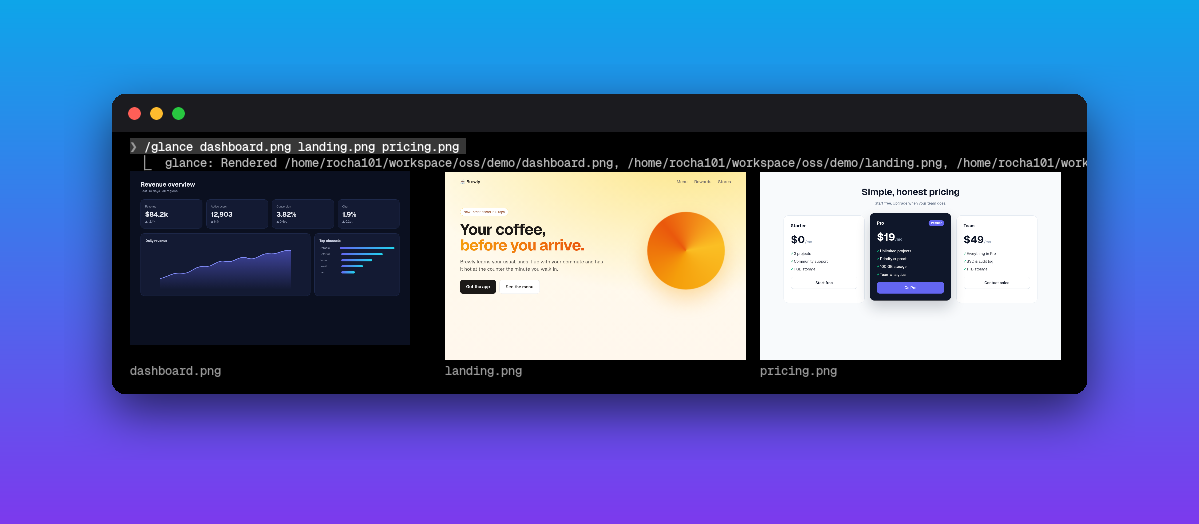
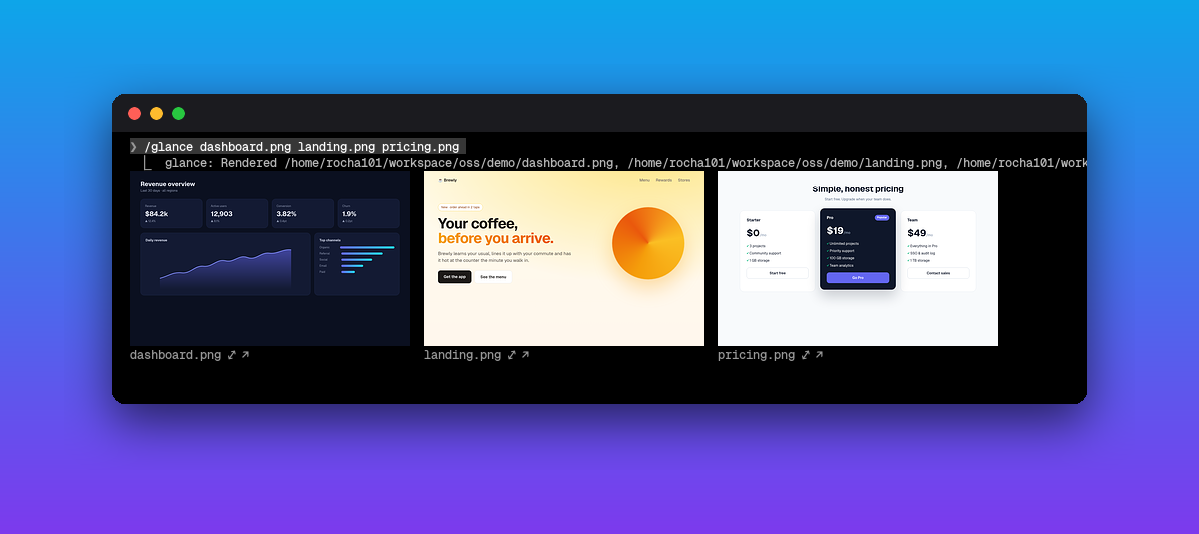
Click to zoom or open: ⤢ enlarges a picture to the chat width, ↗ opens it in the default app

Changed region(s): [[0.0926, 0.1527, 0.8949, 0.7634], [0.1234, 0.3664, 0.2469, 0.4275], [0.2777, 0.3969, 0.3086, 0.4275]]

diff --git a/hooks/register.tsx b/hooks/register.tsx
@@ -16,6 +16,8 @@ const BROWSERS = ['chromium', 'google-chrome-stable', 'google-chrome']
 
 const shots = atom({ plugin: 'glance', key: 'shots' } as const, {})
 const generation = atom({ plugin: 'glance', key: 'generation' } as const, 0)
+// pictures the person enlarged, by generation
+const expanded = atom({ plugin: 'glance', key: 'expanded' } as const, {})
 
 // GLANCE_MODE=image|cells overrides; else kitty-protocol terminals get real pixels
 async function wantsImage($: EngineInterface) {
@@ -189,9 +191,19 @@ const WIDE = 160 // chat columns from which pictures stop at half the width
 
 type ResolveArg = Parameters<EngineInterface['ui']['resolve']>[0]
 
-async function tile($: EngineInterface, e: ResolveArg, s: Shot, cols: number, rows: number, caption: boolean, cell: Cell | undefined) {
+async function toggleSize($: EngineInterface, s: Shot) {
+  await update($, expanded, all => ({ ...all, [String(s.generation)]: !all[String(s.generation)] }))
+}
+
+// the source itself in the desktop's default app: images in the viewer, pages in the browser
+async function openOutside($: EngineInterface, s: Shot) {
+  const r = await $.process.run(['setsid', '-f', 'xdg-open', s.file])
+  if (r.exitCode) $.ui.toast(`glance: could not open ${s.file}`)
+}
+
+async function tile($: EngineInterface, e: ResolveArg, s: Shot, cols: number, rows: number, isBig: boolean, cell: Cell | undefined) {
   if (e.surface !== 'terminal') return null
-  const { Box, Text, Image, Raster } = $.ui.resolve(e)
+  const { Box, Button, Text, Image, Raster } = $.ui.resolve(e)
   const name = s.file.split('/').pop() ?? s.file
   if (s.error) return <Text color="red">glance: {s.error}</Text>
   let pic
@@ -205,13 +217,18 @@ async function tile($: EngineInterface, e: ResolveArg, s: Shot, cols: number, ro
   return (
     <Box flexDirection="column" width={cols}>
       {pic}
-      {caption && <Text dimColor wrap="truncate-end">{name}</Text>}
+      <Box flexDirection="row" columnGap={1}>
+        <Box flexShrink={1}><Text dimColor wrap="truncate-end">{name}</Text></Box>
+        <Button key={`zoom${s.generation}`} plain dimColor label={isBig ? '⤡' : '⤢'} onPress={() => toggleSize($, s)} />
+        <Button key={`open${s.generation}`} plain dimColor label="↗" onPress={() => openOutside($, s)} />
+      </Box>
     </Box>
   )
 }
 
 // justified rows: as many images per row as fit at MIN_TILE columns, all of a row one height,
-// that height filling the width but never past any image's natural size (px / cellPx: no upscale)
+// that height filling the width but never past any image's natural size (px / cellPx: no upscale);
+// an enlarged picture (⤢) takes a row of its own at the whole chat width
 async function gallery($: EngineInterface, e: ResolveArg, list: Shot[], width: number) {
   const { Box, Text } = $.ui.resolve(e)
   if (e.surface !== 'terminal') return <Text dimColor>Pictures draw in the terminal only.</Text>
@@ -224,8 +241,25 @@ async function gallery($: EngineInterface, e: ResolveArg, list: Shot[], width: n
   const ok = list.filter(s => !s.error)
   const rows = []
   for (const s of list.filter(s => s.error)) rows.push(await tile($, e, s, 1, 1, false, cell))
-  for (let i = 0; i < ok.length; i += perRow) {
-    const row = ok.slice(i, i + perRow)
+  const big = await read($, expanded)
+  const full = Math.max(1, Math.min(255, width - 4))
+  // runs of compact pictures between the enlarged ones, each enlarged one a row of its own
+  const groups: Shot[][] = []
+  for (const s of ok) {
+    const last = groups[groups.length - 1]
+    if (big[String(s.generation)]) groups.push([s])
+    else if (last && !big[String(last[0]!.generation)] && last.length < perRow) last.push(s)
+    else groups.push([s])
+  }
+  for (const row of groups) {
+    if (big[String(row[0]!.generation)]) {
+      const s = row[0]!
+      const a = s.w / s.h
+      const height = Math.max(1, Math.min(255, Math.floor(full / (ratio * a))))
+      const cols = Math.max(1, Math.min(full, Math.round(ratio * a * height)))
+      rows.push(await tile($, e, s, cols, height, true, cell))
+      continue
+    }
     // an image `a = w/h` wide is ratio * a * rows columns
     const aspect = row.map(s => s.w / s.h)
     const fill = (avail - GAP * (row.length - 1)) / (ratio * aspect.reduce((x, y) => x + y, 0))
@@ -234,7 +268,7 @@ async function gallery($: EngineInterface, e: ResolveArg, list: Shot[], width: n
     const tiles = []
     for (const [k, s] of row.entries()) {
       const cols = Math.max(1, Math.min(avail, Math.round(ratio * aspect[k]! * height)))
-      tiles.push(await tile($, e, s, cols, height, list.length > 1, cell))
+      tiles.push(await tile($, e, s, cols, height, false, cell))
     }
     rows.push(<Box flexDirection="row" gap={GAP} alignItems="flex-start">{tiles}</Box>)
   }

diff --git a/tests/render.test.tsx b/tests/render.test.tsx
@@ -94,3 +94,36 @@ test('pictures are resized to the exact pixels of their box when the terminal re
   expect(ph! % 20).toBe(0)
   await ui.unmount()
 })
+
+test('⤢ enlarges a picture to the whole chat width, ⤡ shrinks it back, ↗ opens the source', async ($, on) => {
[1 lines of base64/hex data omitted]
+  const ran: string[][] = []
+  on('process.run', (_$, e) => {
+    ran.push([...e.argv])
+    const out = e.argv[0] === 'realpath' ? '/abs/small.png\n' : e.argv[1] === 'identify' ? '400 300' : ''
+    return { value: { exitCode: 0, stdout: out, stderr: '', isStdoutTruncated: false, isStderrTruncated: false } }
+  })
+  on('clock.now', () => ({ value: 0 }))
+  on('fs.read', () => ({ value: { base64: PNG } }))
+  on('env.get', (_$, e) => ({ value: e.name === 'GLANCE_MODE' ? 'image' : undefined }))
+  on('ui.render', ($, e) => { const { Text } = $.ui.resolve(e); return <Text>row</Text> })
+
+  const res = await $.command.run({
+    command: 'glance', args: 'small.png', origin: { kind: 'composer' }, presentation: { isFullscreen: true, columns: 120 },
+  })
+  const ui = await $.ui.mount({ plugin: 'glance', surface: 'terminal', component: 'CommandOutput',
+    viewport: { columns: 120, rows: 50 },
+    props: { command: 'glance', args: 'small.png', text: res.text ?? '', isErrored: false } })
+  const width = async () => Number(JSON.stringify(await ui.find({ type: 'Image' })).match(/"columns":(\d+)/)?.[1])
+
+  const compact = await width()
+  expect(compact).toBeLessThan(40) // 400px / 12 ≈ 33 columns
+  await ui.press({ key: 'zoom1' })
+  expect(await width()).toBeGreaterThan(108) // the whole chat width, less row rounding
+  await ui.press({ key: 'zoom1' })
+  expect(await width()).toBe(compact)
+
+  await ui.press({ key: 'open1' })
+  expect(ran.some(a => a.join(' ') === 'setsid -f xdg-open /abs/small.png')).toBe(true)
+  await ui.unmount()
+})

diff --git a/types/index.d.ts b/types/index.d.ts
@@ -3,6 +3,6 @@ export type Shot = { file: string; img: string; w: number; h: number; generation
 
 declare module 'claude-code' {
   interface PluginState {
-    'glance': { shots: Record<string, Shot>; generation: number }
+    'glance': { shots: Record<string, Shot>; generation: number; expanded: Record<string, boolean> }
   }
 }

diff --git a/README.pt-BR.md b/README.pt-BR.md
@@ -30,6 +30,7 @@ O **glance** fecha esse ciclo. Assim que o Claude escreve ou edita um `.html`, u
 - **`/glance` em qualquer coisa** — `/glance mockup.png pagina.html grafico.svg` mostra qualquer arquivo na hora.
 - **Galeria inteligente** — várias imagens lado a lado em linhas justificadas, mesma altura, com legenda.
 - **Tamanho certo** — tamanho real, nunca ampliado; metade da largura em tela cheia, largura toda com a tela dividida.
+- **Clique pra ampliar ou abrir** — `⤢` aumenta a imagem pra largura toda do chat (`⤡` volta), `↗` abre no visualizador de imagem ou no navegador.
 - **Perfeito no pixel** — a imagem é redimensionada (Lanczos) pro tamanho exato da caixa em pixels, então texto pequeno continua legível.
 - **Recorte justo** — o espaço vazio embaixo de páginas curtas é cortado.
 - **Funciona em todo terminal** — pixels de verdade em terminais com protocolo kitty, arte em blocos coloridos nos outros.
@@ -65,6 +66,8 @@ Adicione a pasta em `CLAUDE_CODE_PLUGIN_DIRS` no bloco `env` do `~/.claude/setti
 | O Claude edita a página | a nova versão embaixo da linha do `Edit` |
 | O Claude lê um print ou imagem | a imagem embaixo da linha do `Read` |
 | `/glance a.png b.html c.jpg` | todas, lado a lado |
+| clica em `⤢` / `⤡` embaixo da imagem | ela ocupa a largura toda do chat / volta |
+| clica em `↗` embaixo da imagem | o arquivo abre no app padrão (visualizador, navegador) |
 
 **Dica — faça o Claude te *mostrar* as coisas.** Coloque isto no `~/.claude/CLAUDE.md`:
 

diff --git a/README.md b/README.md
@@ -30,6 +30,7 @@ Claude writes a landing page, a dashboard, a chart, an email template… and you
 - **`/glance` anything** — `/glance mockup.png page.html chart.svg` shows any files on demand.
 - **Smart gallery** — several images sit side by side in justified rows, same height, captioned.
 - **Right-sized** — natural size, never blown up; half the chat width on a wide screen, full width on a split pane.
+- **Click to zoom or open** — `⤢` blows a picture up to the whole chat width (`⤡` shrinks it back), `↗` opens it in your image viewer or browser.
 - **Pixel-perfect** — pictures are resized (Lanczos) to the exact pixels of their box, so small text stays readable.
 - **Tight crops** — the empty space under short pages is trimmed away.
 - **Works everywhere** — real pixels on kitty-protocol terminals, a colour block-art fallback on the rest.
@@ -65,6 +66,8 @@ Add the folder to `CLAUDE_CODE_PLUGIN_DIRS` in the `env` block of `~/.claude/set
 | Claude edits the page | the updated render under the `Edit` row |
 | Claude reads a screenshot or image | the picture under the `Read` row |
 | `/glance a.png b.html c.jpg` | all of them, side by side |
+| click `⤢` / `⤡` under a picture | it grows to the whole chat width / goes back |
+| click `↗` under a picture | the file opens in your default app (viewer, browser) |
 
 **Tip — make Claude *show* you things.** Add this to `~/.claude/CLAUDE.md`:
 
